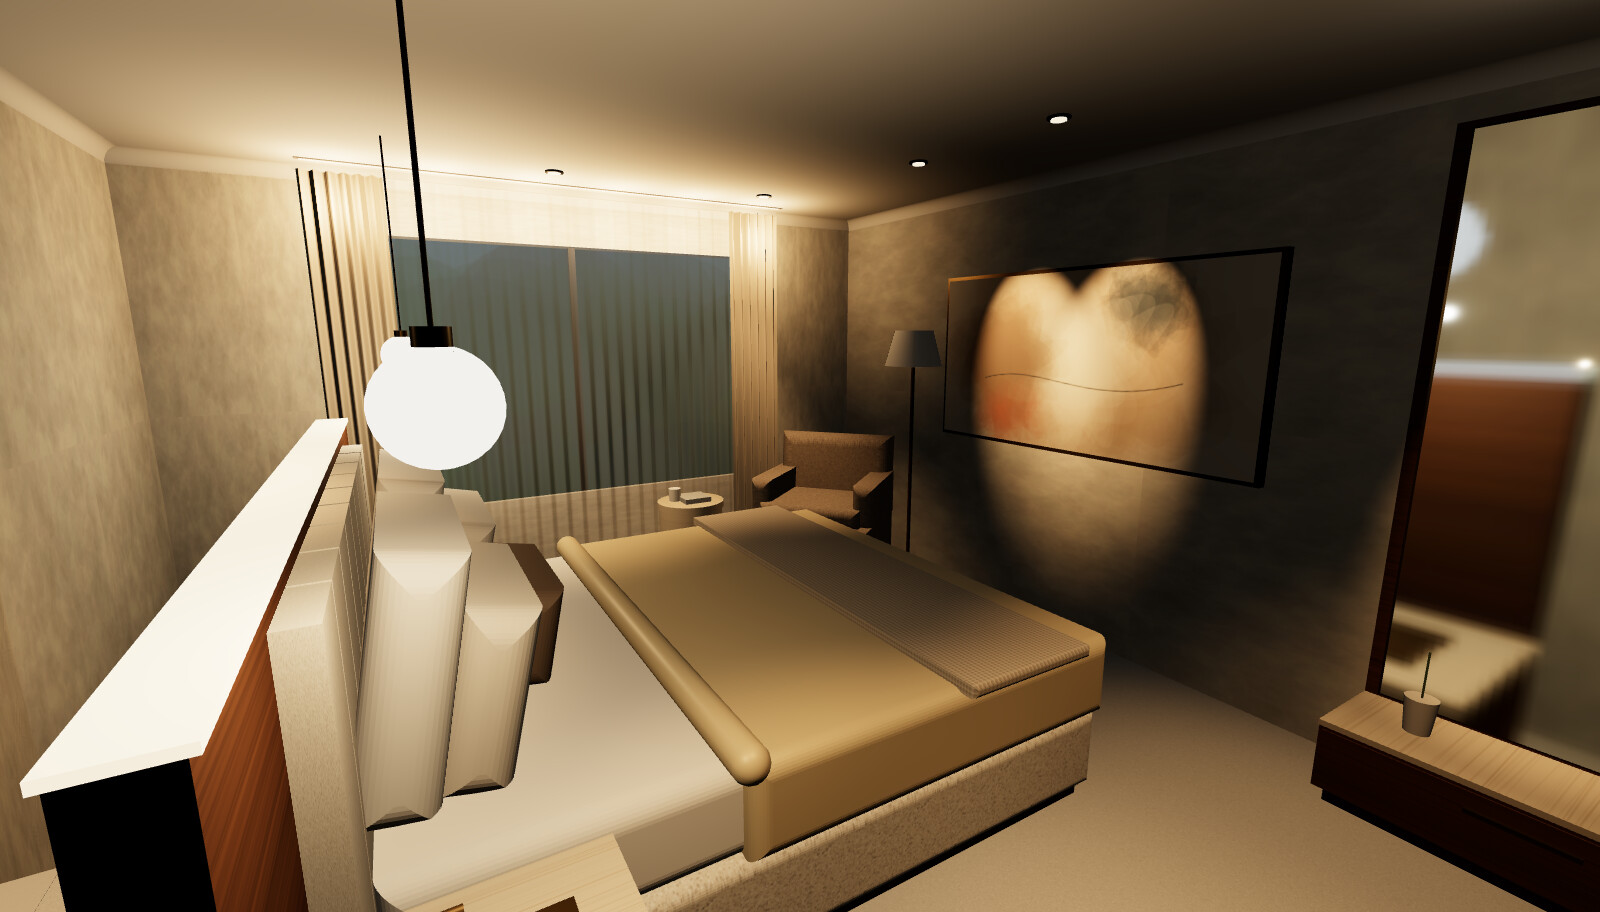
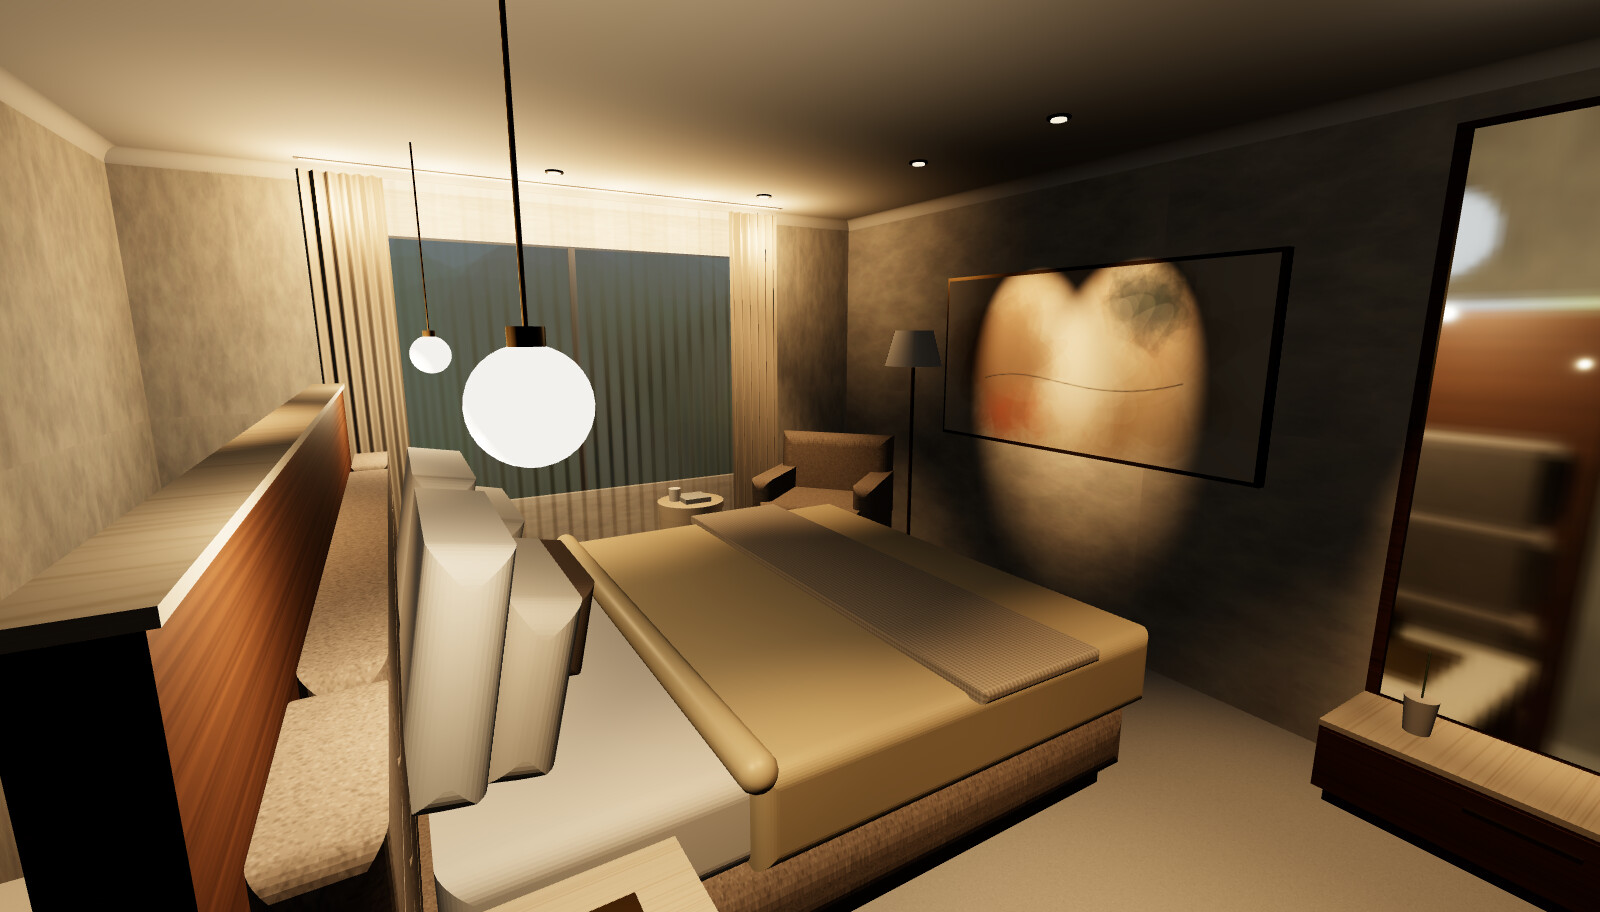
Use Nick Scali Solenne bed in the 3D model, renders and Gemini prompts
Solenne: 2960 W x 2310 L x 1055 H, centre + wing panels, 5 horizontal
channels, mushroom-taupe fabric. Walnut wall raised to 1.35 m so a band
shows above the headboard; nightstands sit in front of the wings.

Claude-Session: https://claude.ai/code/session_01P4LkCESWoGV8P5QgBbWSmy

diff --git a/renders/bedroom-1-3d.html b/renders/bedroom-1-3d.html
@@ -141,43 +141,46 @@ drape(1.0,3.0,RL-0.1,sheerM,22,0.02);                                       // s
 // ---------- Rug ----------
 // (no rug - wall-to-wall carpet)
 
-// ---------- King bed (centre z = 2.85) ----------
-const bz0=1.885, bz1=3.815, bx0=1.05, bx1=3.15;
-rbox(bx1-bx0,0.28,bz1-bz0,0.04,boucle,(bx0+bx1)/2,0.2,(bz0+bz1)/2);
-box(bx0+0.02,bx1-0.02,0.0,0.06,bz0+0.05,bz1-0.05,mat('#2c2b2a',0.6)); // shadow gap plinth
+// ---------- Bought king bed: Nick Scali Solenne (dims from Nick Scali: 2960 W (headboard) x 2310 L x 1055 H; base ~2000 W (assumed); 5 horizontal channels) ----------
+const bz0=1.85, bz1=3.85, bx0=0.87, bx1=3.05;
+const solM = mat('#ffffff',1,0,{map: canvasTex(256,256,speckle('#9d8d7f',256,256,4000,[0.8,1.8],0.32,0.3,19),3,3)});
+rbox(bx1-bx0,0.3,bz1-bz0,0.13,solM,(bx0+bx1)/2,0.2,(bz0+bz1)/2);
+box(bx0+0.08,bx1-0.08,0.0,0.05,bz0+0.08,bz1-0.08,mat('#2c2b2a',0.6)); // recessed plinth
 rbox(bx1-bx0-0.06,0.26,bz1-bz0-0.06,0.06,sheet,(bx0+bx1)/2,0.45,(bz0+bz1)/2);
 // duvet folded back over the foot two-thirds, draping over sides
 rbox(2.38-bx0,0.27,bz1-bz0+0.05,0.05,duvet,(bx0+2.38)/2-0.01,0.47,(bz0+bz1)/2).receiveShadow=false;
 {const roll=new THREE.Mesh(new THREE.CapsuleGeometry(0.05,bz1-bz0-0.02,8,16),duvet); roll.rotation.x=Math.PI/2; roll.position.set(2.36,0.6,(bz0+bz1)/2); roll.castShadow=false; scene.add(roll);}
 // knit throw at an angle near foot
 rbox(0.5,0.04,bz1-bz0+0.12,0.015,knit,1.45,0.615,(bz0+bz1)/2).castShadow=false;
-// headboard: channel tufted ivory boucle mounted on walnut wall
-for(let i=0;i<9;i++){ const z0=bz0-0.05+i*((bz1-bz0+0.1)/9); const ch=box(3.13,3.2,0.32,1.15,z0+0.006,z0+(bz1-bz0+0.1)/9-0.006,boucle); }
-box(3.2,3.3,0,1.2,1.4,4.3,walnut);                           // freestanding headboard wall
-box(3.19,3.31,1.2,1.215,1.4,4.3,mat('#fff3d6',0.4,0,{emissive:'#ffdca0',emissiveIntensity:0.15})); // LED edge (off-ish)
+// Solenne headboard: 2960 wide (centre panel + a wing each side), 1055 high, 5 horizontal channels, back face 20 mm off the walnut wall
+{ const HH=1.055, rows=5, rh=(HH-0.04)/rows, panels=[[1.37,1.85],[1.85,3.85],[3.85,4.33]];
+  for(const [z0,z1] of panels){ box(3.08,3.16,0,0.04,z0+0.05,z1-0.05,mat('#2c2b2a',0.6));
+    for(let r=0;r<rows;r++){ rbox(0.13,rh-0.008,z1-z0-0.01,0.055,solM,3.115,0.04+r*rh+rh/2,(z0+z1)/2); } } }
+box(3.2,3.3,0,1.35,1.35,4.35,walnut);                          // walnut headboard wall, 1.35 m, frames the Solenne headboard
+box(3.19,3.31,1.35,1.37,1.35,4.35,travertine);                 // stone cap
 // pillows
 function pillow(x,y,z,w,h,d,m,tilt){ const o=rbox(d,h,w,Math.min(d,h)*0.45,m,x,y,z); o.rotation.z=tilt; return o; }
-for(const zc of [2.45,3.25]){ pillow(3.03,0.86,zc,0.74,0.6,0.18,mat(PAL.pillowA,0.85),0.18); pillow(2.88,0.78,zc,0.68,0.44,0.17,mat(PAL.pillowB,0.85),0.22); }
-pillow(2.72,0.72,2.85,0.6,0.3,0.15,velvet,0.2);
+for(const zc of [2.45,3.25]){ pillow(2.94,0.86,zc,0.74,0.6,0.18,mat(PAL.pillowA,0.85),0.18); pillow(2.79,0.78,zc,0.68,0.44,0.17,mat(PAL.pillowB,0.85),0.22); }
+pillow(2.63,0.72,2.85,0.6,0.3,0.15,velvet,0.2);
 
 
 // ---------- Nightstands ----------
-for(const [z0,z1] of [[1.385,1.885],[3.815,4.315]]){
-  box(2.72,3.2,0.0,0.52,z0+0.02,z1-0.02,walnut);
-  for(let k=0;k<10;k++){ const zz=z0+0.05+k*0.04; box(2.705,2.72,0.08,0.45,zz,zz+0.022,walnut); } // fluted front
-  box(2.69,3.2,0.52,0.56,z0,z1,travertine);
-  box(2.69,2.70,0.26,0.28,(z0+z1)/2-0.08,(z0+z1)/2+0.08,brass);              // pull
+for(const [z0,z1] of [[1.36,1.81],[3.89,4.34]]){   // 450 nightstands in front of the headboard wings
+  box(2.61,3.06,0.0,0.52,z0+0.01,z1-0.01,walnut);
+  for(let k=0;k<9;k++){ const zz=z0+0.04+k*0.042; box(2.595,2.61,0.08,0.45,zz,zz+0.022,walnut); } // fluted front
+  box(2.58,3.06,0.52,0.56,z0,z1,travertine);
+  box(2.58,2.59,0.26,0.28,(z0+z1)/2-0.08,(z0+z1)/2+0.08,brass);              // pull
   // pendant above each nightstand
-  cyl(2.95,1.98,(z0+z1)/2,0.004,0.004,0.84,brass,6);
-  const pg=new THREE.Mesh(new THREE.SphereGeometry(0.085,32,16),mat('#f7f1e6',0.35,0,{emissive:'#fff1d8',emissiveIntensity:0.15})); pg.position.set(2.95,1.5,(z0+z1)/2); pg.castShadow=true; scene.add(pg);
-  cyl(2.95,1.59,(z0+z1)/2,0.025,0.025,0.035,brass);
+  cyl(2.84,1.98,(z0+z1)/2,0.004,0.004,0.84,brass,6);
+  const pg=new THREE.Mesh(new THREE.SphereGeometry(0.085,32,16),mat('#f7f1e6',0.35,0,{emissive:'#fff1d8',emissiveIntensity:0.15})); pg.position.set(2.84,1.5,(z0+z1)/2); pg.castShadow=true; scene.add(pg);
+  cyl(2.84,1.59,(z0+z1)/2,0.025,0.025,0.035,brass);
 }
 // styling on south nightstand (window side): books, carafe, bud vase
-box(2.78,3.06,0.56,0.6,3.95,4.15,mat('#d6d7d8',0.8)); box(2.8,3.04,0.6,0.625,3.97,4.13,mat('#3e4a52',0.7));
-cyl(2.85,0.62,4.22,0.035,0.04,0.12,mat('#e9efe9',0.1,0,{transparent:true,opacity:0.5})); cyl(3.05,0.64,3.9,0.025,0.02,0.08,mat('#f1f1ef',0.4));
-cyl(3.05,0.72,3.9,0.004,0.004,0.1,mat('#5d7a4c',0.8),6); pillow(3.05,0.78,3.9,0.05,0.04,0.05,mat('#fffaf2',0.7),0);
+box(2.68,2.96,0.56,0.6,3.98,4.18,mat('#d6d7d8',0.8)); box(2.7,2.94,0.6,0.625,4.0,4.16,mat('#3e4a52',0.7));
+cyl(2.75,0.62,4.25,0.035,0.04,0.12,mat('#e9efe9',0.1,0,{transparent:true,opacity:0.5})); cyl(2.95,0.64,3.95,0.025,0.02,0.08,mat('#f1f1ef',0.4));
+cyl(2.95,0.72,3.95,0.004,0.004,0.1,mat('#5d7a4c',0.8),6); pillow(2.95,0.78,3.95,0.05,0.04,0.05,mat('#fffaf2',0.7),0);
 // north nightstand: small clock + tray
-box(2.8,3.08,0.56,0.57,1.5,1.75,brass); cyl(3.0,0.62,1.7,0.05,0.05,0.04,brass).rotation.z=Math.PI/2;
+box(2.7,2.98,0.56,0.57,1.45,1.7,brass); cyl(2.9,0.62,1.6,0.05,0.05,0.04,brass).rotation.z=Math.PI/2;
 
 // ---------- West wall: plain limewash plaster (no panelling, no TV) ----------
 // (picture light removed - art lit by ceiling spotlights A1/A2)
